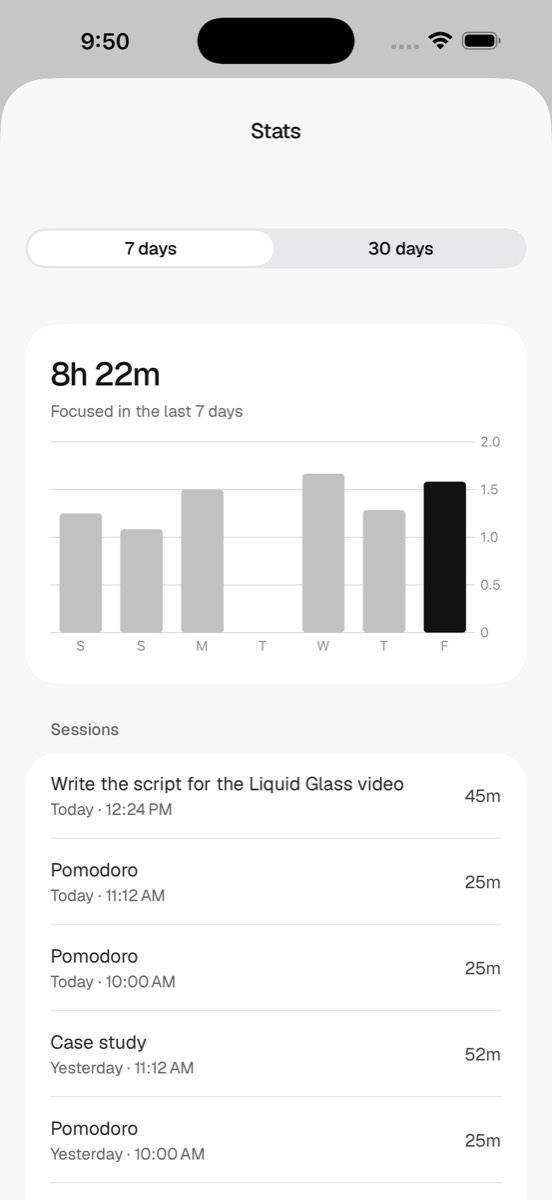
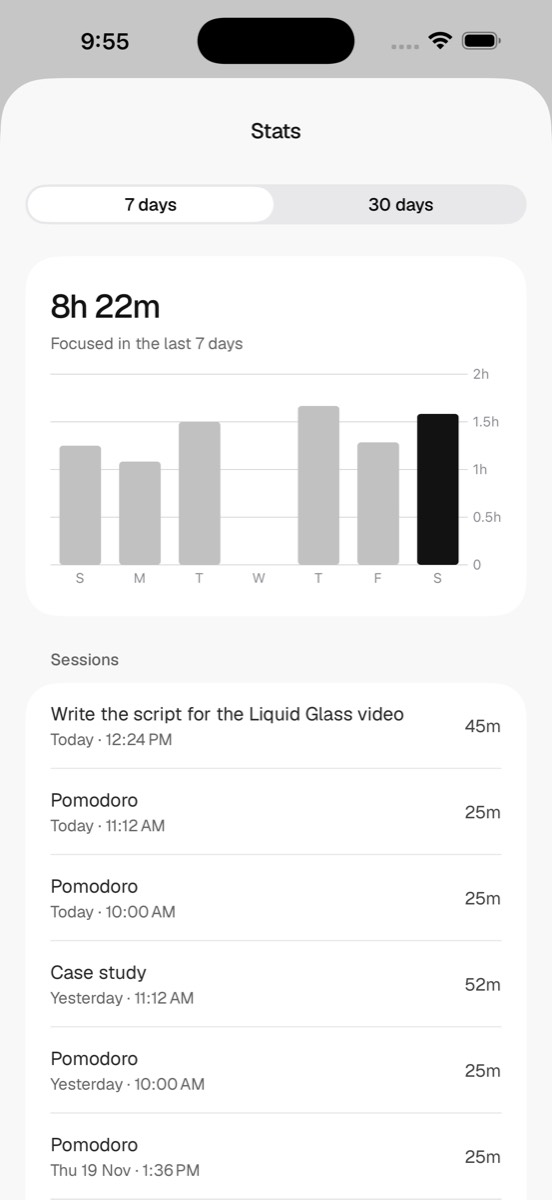
iPhone app: stats chart in hours, plain days keep their weekday, no blue return key

diff --git a/ios/LukeOS/Features/Focus/FocusScreen.swift b/ios/LukeOS/Features/Focus/FocusScreen.swift
@@ -433,7 +433,12 @@ struct FocusStatsSheet: View {
                                     AxisValueLabel(format: days == 7 ? .dateTime.weekday(.narrow) : .dateTime.day().month(.abbreviated), centered: true)
                                 }
                             }
-                            .chartYAxis { AxisMarks(position: .trailing) { AxisGridLine(); AxisValueLabel() } }
+                            .chartYAxis {
+                                AxisMarks(position: .trailing) { v in
+                                    AxisGridLine()
+                                    AxisValueLabel { if let h = v.as(Double.self) { Text(h == 0 ? "0" : "\(h.formatted(.number.precision(.fractionLength(0...1))))h") } }
+                                }
+                            }
                             .frame(height: 170)
                             .padding(.top, 12)
                         }
@@ -468,7 +473,8 @@ struct FocusStatsSheet: View {
             }
             .listStyle(.insetGrouped)
             .pageBackground()
-            .contentMargins(.top, 4, for: .scrollContent)
+            .contentMargins(.top, 0, for: .scrollContent)
+            .listSectionSpacing(16)
             .navigationTitle("Stats")
             .navigationBarTitleDisplayMode(.inline)
             .task(id: days) { await load() }

diff --git a/ios/Tests/DecodingTests.swift b/ios/Tests/DecodingTests.swift
@@ -65,6 +65,19 @@ final class DecodingTests: XCTestCase {
         XCTAssertEqual(e.dueDate, "2026-11-27")
     }
 
+    /// Plain days become local midnights for charts and pickers, so the weekday never slips a day.
+    func testPlainDaysKeepTheirWeekday() throws {
+        let stats = try LukeAPI.decoder.decode(FocusStats.self, from: try data("get_focus_stats.json"))
+        let last = try XCTUnwrap(stats.days.last)
+        XCTAssertEqual(last.date, stats.today)
+        let local = Day.toLocal(last.date)
+        XCTAssertEqual(Calendar.current.component(.weekday, from: local) - 1, Day.weekday(stats.today))
+        XCTAssertEqual(Day.fromLocal(local), stats.today)
+        XCTAssertEqual(Day.friendly("2026-11-22", today: "2026-11-21"), "Tomorrow")
+        XCTAssertEqual(Day.friendly("2026-11-20", today: "2026-11-21"), "Yesterday")
+        XCTAssertEqual(Day.friendly("2026-11-27", today: "2026-11-21"), "Fri")
+    }
+
     func testMarkdownRoundTrip() {
         let md = "# A\n\n- [ ] one\n- [x] two"
         XCTAssertEqual(Markdown.toggleCheck(md, line: 2), "# A\n\n- [x] one\n- [x] two")

diff --git a/ios/LukeOS/App/SignInView.swift b/ios/LukeOS/App/SignInView.swift
@@ -27,7 +27,7 @@ struct SignInView: View {
                 .textInputAutocapitalization(.characters)
                 .autocorrectionDisabled()
                 .keyboardType(.asciiCapable)
-                .submitLabel(.go)
+                .submitLabel(.return)
                 .focused($focused)
                 .onSubmit(submit)
                 .padding(.vertical, 14)
